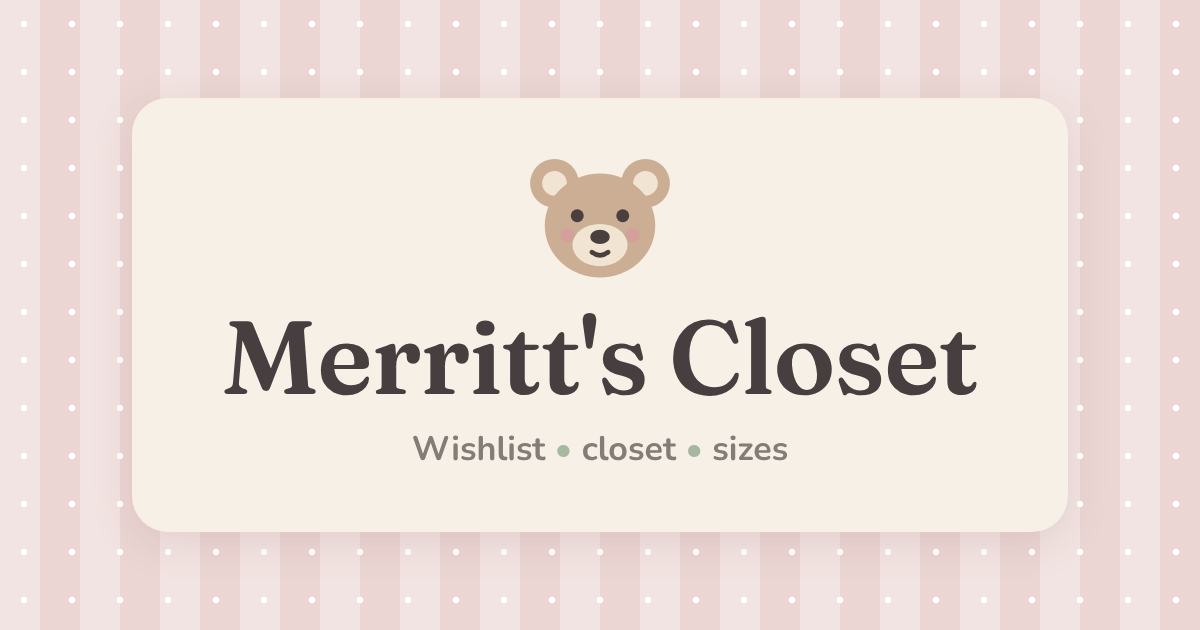
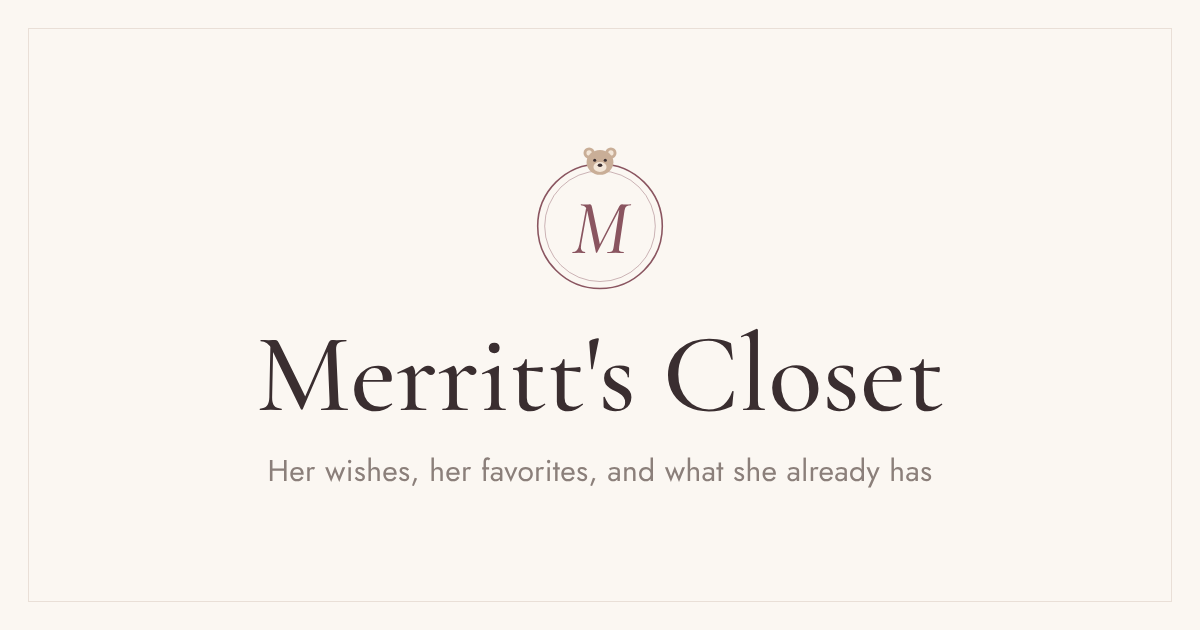
Boutique redesign: monogram crest, Cormorant + Jost, richer palette, photo-led closet
Claude-Session: https://claude.ai/code/session_013UszVdfqYSbis2w46fHkfp

diff --git a/index.html b/index.html
@@ -4,7 +4,7 @@
 <meta charset="UTF-8" />
 <meta name="viewport" content="width=device-width, initial-scale=1, viewport-fit=cover" />
 <title>Merritt's Closet</title>
-<meta name="theme-color" content="#EBD6D3" />
+<meta name="theme-color" content="#FBF7F2" />
 <meta name="description" content="Merritt's wishlist, closet and current sizes. Claim a gift so nobody doubles up." />
 <meta property="og:type" content="website" />
 <meta property="og:title" content="Merritt's Closet" />
@@ -13,13 +13,13 @@
 <meta property="og:image" content="https://alyssamanse.github.io/MerrittsCloset/share.png" />
 <meta property="og:image:width" content="1200" />
 <meta property="og:image:height" content="630" />
-<meta property="og:image:alt" content="A little bear above the words Merritt's Closet" />
+<meta property="og:image:alt" content="An M monogram with a tiny bear above the words Merritt's Closet" />
 <meta name="twitter:card" content="summary_large_image" />
 <link rel="apple-touch-icon" href="share-icon.png" />
 <meta name="color-scheme" content="light" />
 <link rel="preconnect" href="https://fonts.googleapis.com" />
 <link rel="preconnect" href="https://fonts.gstatic.com" crossorigin />
-<link href="https://fonts.googleapis.com/css2?family=Fraunces:opsz,wght,SOFT@9..144,500..700,100&family=Nunito:wght@400;600;700;800&display=swap" rel="stylesheet" />
+<link href="https://fonts.googleapis.com/css2?family=Cormorant+Garamond:ital,wght@0,500;0,600;1,500&family=Jost:wght@400;500;600&display=swap" rel="stylesheet" />
 <style>
   /* Beige ground, dusty rose primary, sage accents. One light look on every
      device, including phones set to dark mode. */
@@ -242,10 +242,121 @@
 
   .toast { position: fixed; left: 50%; bottom: calc(90px + env(safe-area-inset-bottom)); transform: translateX(-50%); background: var(--ink); color: var(--paper); padding: 10px 16px; border-radius: 999px; font-weight: 700; font-size: 14px; z-index: 30; box-shadow: var(--shadow); width: max-content; max-width: calc(100vw - 32px); text-align: center; }
   .demo-bar { background: var(--moss-lt); color: var(--moss); text-align: center; font-size: 13px; font-weight: 800; padding: 6px; }
+
+  /* ── Boutique theme ─────────────────────────────────────────────────
+     Quiet and tailored: warm ivory ground, deep mauve for actions, olive sage for
+     "she has it", cocoa-plum text. Cormorant Garamond for names and headings,
+     Jost for everything you read or tap. One flourish only: the monogram crest. */
+  :root {
+    --paper: #FBF7F2; --surface: #FFFDFA; --ink: #3A2E30; --taupe: #8B7F7A; --line: #E9DFD7;
+    --rose: #8A5560; --cocoa: #7A4D55; --rose-lt: #F4E9E6; --blush: #EEDFDA; --blush-2: #DCC3BD;
+    --moss: #5E6B4E; --moss-lt: #E9ECE1; --hazel: #DCCDBB; --on-rose: #FFFFFF;
+    --serif: "Cormorant Garamond", Georgia, "Times New Roman", serif;
+    --sans: Jost, "Avenir Next", "Helvetica Neue", system-ui, sans-serif;
+    --shadow: 0 1px 2px rgba(58,46,48,.05);
+  }
+  body { font: 400 16px/1.5 var(--sans); letter-spacing: .005em; }
+  b, strong { font-weight: 600; }
+  h1, h2, h3 { font-family: var(--serif); font-variation-settings: normal; font-weight: 500; letter-spacing: .005em; }
+
+  .hero { background: var(--paper); padding: calc(26px + env(safe-area-inset-top)) 16px 18px; }
+  .crest { color: var(--rose); display: flex; justify-content: center; margin-bottom: 6px; }
+  .crest svg { display: block; margin: 0; }
+  .hero h1 { font-size: 40px; font-weight: 500; line-height: 1.05; color: var(--ink); letter-spacing: 0; }
+  .hero p { font-size: 14.5px; font-weight: 400; color: var(--taupe); margin-top: 8px; }
+
+  .tabs { background: color-mix(in srgb, var(--paper) 94%, transparent); border-top: 1px solid var(--line); border-bottom: 1px solid var(--line); gap: 2px; padding: 0 8px; }
+  .tab { border-radius: 0; padding: 14px clamp(8px, 3vw, 16px) 12px; font-weight: 500; font-size: 15px; color: var(--taupe); border-bottom: 2px solid transparent; }
+  .tab[aria-selected="true"] { background: none; color: var(--ink); border-bottom-color: var(--rose); }
+
+  main { padding-top: 22px; }
+  .note { background: none; border-radius: 0; padding: 0 8px; margin: 2px auto 22px; max-width: 46ch; text-align: center; font: italic 500 18px/1.45 var(--serif); color: var(--taupe); }
+  .note b { font-weight: 600; color: var(--ink); }
+  .section-title { margin: 30px 0 12px; padding-bottom: 8px; border-bottom: 1px solid var(--line); }
+  .section-title h2, .brand-head h2 { font-size: 27px; font-weight: 500; }
+  .muted { font-size: 14px; }
+
+  /* Wishlist: tailored cards, square-cornered photo, serif names */
+  .card { border-radius: 6px; box-shadow: none; padding: 14px; grid-template-columns: 104px 1fr; gap: 14px; margin-bottom: 14px; }
+  .thumb { width: 104px; height: 130px; border-radius: 3px; }
+  .card h3 { font-size: 22px; font-weight: 500; line-height: 1.15; padding-right: 74px; }
+  .meta { font-size: 13.5px; }
+  .chip { font-weight: 500; font-size: 12.5px; padding: 3px 9px; border-radius: 3px; background: var(--rose-lt); color: var(--cocoa); }
+  .chip.ink { background: transparent; border: 1px solid var(--line); color: var(--ink); }
+  .chip.moss { background: var(--moss-lt); color: var(--moss); }
+  .ribbon { top: 14px; left: auto; right: 14px; background: none; color: var(--rose); padding: 0; border-radius: 0; text-transform: none; letter-spacing: 0; font: italic 500 16px/1 var(--serif); }
+  .actions { border-top: 1px solid var(--line); padding-top: 12px; }
+  .btn { border-radius: 4px; font-weight: 500; letter-spacing: .02em; padding: 10px 18px; }
+  .btn.small { padding: 8px 14px; font-size: 14px; }
+  .btn.ghost { border: 1px solid var(--blush-2); }
+  .btn.soft { background: var(--moss-lt); color: var(--moss); }
+  .link { font-weight: 500; }
+  .status { font-weight: 500; }
+
+  /* Filters: quiet outlined pills; selected fills with ink */
+  .filter { border: 1px solid var(--line); font-weight: 500; color: var(--taupe); padding: 6px 14px; }
+  .filter span { font-weight: 400; }
+  .filter[aria-pressed="true"] { background: var(--ink); border-color: var(--ink); color: var(--paper); }
+  .type-opt { border: 1px solid var(--line); font-weight: 500; }
+  .type-opt[aria-pressed="true"] { background: var(--moss); border-color: var(--moss); }
+
+  /* Closet: a photo-led catalog */
+  .brand-head { margin: 30px 0 12px; padding-bottom: 8px; border-bottom: 1px solid var(--line); }
+  .grid { grid-template-columns: repeat(2, 1fr); gap: 22px 14px; }
+  @media (min-width: 560px) { .grid { grid-template-columns: repeat(3, 1fr); } }
+  .print { background: none; border: 0; border-radius: 0; overflow: visible; }
+  .print img { aspect-ratio: 4 / 5; border-radius: 3px; }
+  .print span { padding: 8px 0 0; font: 500 18px/1.2 var(--serif); color: var(--ink); }
+  .print small { font: 400 12.5px/1.4 var(--sans); }
+  .pills { font-weight: 400; margin-top: 6px; }
+  .pill { font: 400 11.5px/1.5 var(--sans); letter-spacing: .01em; padding: 1px 7px; border-radius: 3px; }
+  .print.outgrown > span { color: var(--taupe); }
+  .grid.toys .print img { aspect-ratio: 1; }
+  .search .in { border-radius: 4px; }
+
+  .favs { background: var(--rose-lt); border: 0; border-radius: 6px; padding: 18px 16px 8px; }
+  .favs-head h2 { font-size: 24px; color: var(--cocoa); }
+  .fav-row { border-top: 1px solid var(--blush-2); }
+  .fav-thumb, .mini-img { border-radius: 3px; }
+  .fav-style { border-radius: 3px; font-weight: 500; }
+
+  /* Sizes: a tailored list rather than boxes */
+  .size-row { background: none; border: 0; border-bottom: 1px solid var(--line); border-radius: 0; padding: 14px 2px; margin: 0; }
+  .size-row .name strong { font: 500 21px/1.2 var(--serif); }
+  .size-badge { font: 500 28px/1 var(--serif); color: var(--rose); }
+  .size-badge small { font: 400 12px/1.4 var(--sans); }
+  .plan-card, .stock-bar, .admin-card, .idea-row, .mini { border-radius: 6px; }
+  .plan-head h3 { font: 500 24px/1.15 var(--serif); }
+  .plan-brand strong { font: 500 19px/1.2 var(--serif); }
+  .ppill { border-radius: 3px; font-weight: 400; }
+  .ppill b { font-weight: 500; }
+  .mini b { font: 500 18px/1.2 var(--serif); }
+
+  /* Forms and sheets */
+  .in { border: 1px solid var(--line); border-radius: 4px; }
+  label.f { font-weight: 500; letter-spacing: .01em; }
+  .sheet { border-radius: 12px 12px 0 0; }
+  @media (min-width: 600px) { .sheet { border-radius: 12px; } }
+  .sheet h2, .modal h3 { font-size: 28px; font-weight: 500; }
+  .fab { border-radius: 999px; box-shadow: 0 6px 18px rgba(138,85,96,.28); }
+  .toast { border-radius: 4px; font-weight: 500; }
+  .icon-btn { border-radius: 4px; font-weight: 500; }
+  footer { border-top: 1px solid var(--line); max-width: 720px; margin: 0 auto; }
+  .size-badge, .plan-head h3, .print span, .mini b { font-variant-numeric: lining-nums; }
+  .card h3 { padding-right: 0; }
+  .card:has(.ribbon) h3 { padding-right: 84px; }
+  .swatch { font-weight: 500; }
+  .plan-brand { border-top-style: solid; }
+  .ppill.skip { border-style: solid; border-color: var(--line); }
+  .actions { border-top-style: solid; }
+  .link.quiet { font-weight: 500; }
+  .section-title h2, .brand-head h2 { line-height: 1.15; }
+  .section-title .link, .section-title > .muted { white-space: nowrap; }
+  .idea-row b, .fav-row strong { font: 500 18px/1.2 var(--serif); }
 </style>
 </head>
 <body>
   <div id="app"></div>
-  <script type="module" src="app.js?v=1004-0819"></script>
+  <script type="module" src="app.js?v=1004-0822"></script>
 </body>
 </html>

diff --git a/app.js b/app.js
@@ -1,6 +1,6 @@
-import { CONFIG } from "./config.js?v=1004-0819";
-import { createFirebaseStore, createDemoStore } from "./store.js?v=1004-0819";
-const BUILD = "1004-0819"; // stamped on each publish, matches the ?v= on the script URLs
+import { CONFIG } from "./config.js?v=1004-0822";
+import { createFirebaseStore, createDemoStore } from "./store.js?v=1004-0822";
+const BUILD = "1004-0822"; // stamped on each publish, matches the ?v= on the script URLs
 
 const SIZES = ["Preemie", "Newborn", "0–3M", "3–6M", "6–9M", "6–12M", "9–12M", "12M", "12–18M", "18M", "18–24M", "2T", "3T", "4T", "5T"];
 const TABS = ["wishlist", "ideas", "closet", "sizes"];
@@ -51,6 +51,19 @@ const PLACEHOLDER =
 const img = (src, cls = "", alt = "") =>
   `<img class="${cls}" src="${esc(safeUrl(src) || PLACEHOLDER)}" alt="${esc(alt)}" loading="lazy" referrerpolicy="no-referrer" onerror="this.onerror=null;this.src='${PLACEHOLDER}'">`;
 
+const CREST = `<svg viewBox="0 0 96 104" width="88" height="96">
+  <circle cx="48" cy="56" r="40" fill="none" stroke="currentColor" stroke-width="1"/>
+  <circle cx="48" cy="56" r="35.5" fill="none" stroke="currentColor" stroke-width=".5" opacity=".55"/>
+  <g transform="translate(37 4)">
+    <circle cx="4" cy="5" r="3.6" fill="#C9AE97"/><circle cx="18" cy="5" r="3.6" fill="#C9AE97"/>
+    <circle cx="4" cy="5" r="1.7" fill="#F3E6D8"/><circle cx="18" cy="5" r="1.7" fill="#F3E6D8"/>
+    <ellipse cx="11" cy="11" rx="8.6" ry="8" fill="#C9AE97"/>
+    <ellipse cx="11" cy="14" rx="4.2" ry="3.2" fill="#F3E6D8"/>
+    <circle cx="7.6" cy="9.6" r="1" fill="#3A2E30"/><circle cx="14.4" cy="9.6" r="1" fill="#3A2E30"/>
+    <ellipse cx="11" cy="12.8" rx="1.5" ry="1.1" fill="#3A2E30"/>
+  </g>
+  <text x="48" y="73" text-anchor="middle" font-family="'Cormorant Garamond', Georgia, serif" font-style="italic" font-weight="500" font-size="50" fill="currentColor">M</text>
+</svg>`;
 const BEAR = `<svg width="46" height="40" viewBox="0 0 46 40" aria-hidden="true">
   <circle cx="9" cy="9" r="7.5" fill="#CBAE93"/><circle cx="37" cy="9" r="7.5" fill="#CBAE93"/>
   <circle cx="9" cy="9" r="3.8" fill="#F1E4D3"/><circle cx="37" cy="9" r="3.8" fill="#F1E4D3"/>
@@ -112,9 +125,9 @@ function render() {
   $app.innerHTML = `
     ${isDemo ? `<div class="demo-bar">Preview with sample data. Nothing here is saved.</div>` : ""}
     <header class="hero">
-      ${BEAR}
+      <div class="crest" aria-hidden="true">${CREST}</div>
       <h1>${name}'s Closet</h1>
-      <p>Wishlist · favorite brands · what she already has</p>
+      <p>Her wishes, her favorites, and what she already has</p>
     </header>
     <nav class="tabs" role="tablist">
       ${TABS.map((t) => `<button class="tab" role="tab" aria-selected="${tab === t}" data-tab="${t}">${TAB_LABEL[t]}</button>`).join("")}

diff --git a/store.js b/store.js
@@ -10,7 +10,7 @@
 //   • Retries are capped (2) with backoff, only for transient errors, and every
 //     change is idempotent on the server, so a retry can't double a write.
 //   • Identical in-flight requests are merged (double taps send one request).
-import { CONFIG } from "./config.js?v=1004-0819";
+import { CONFIG } from "./config.js?v=1004-0822";
 
 const SDK = "https://www.gstatic.com/firebasejs/11.0.2";
 const CACHE_KEY = `closet:${CONFIG.wishlistId}`;
